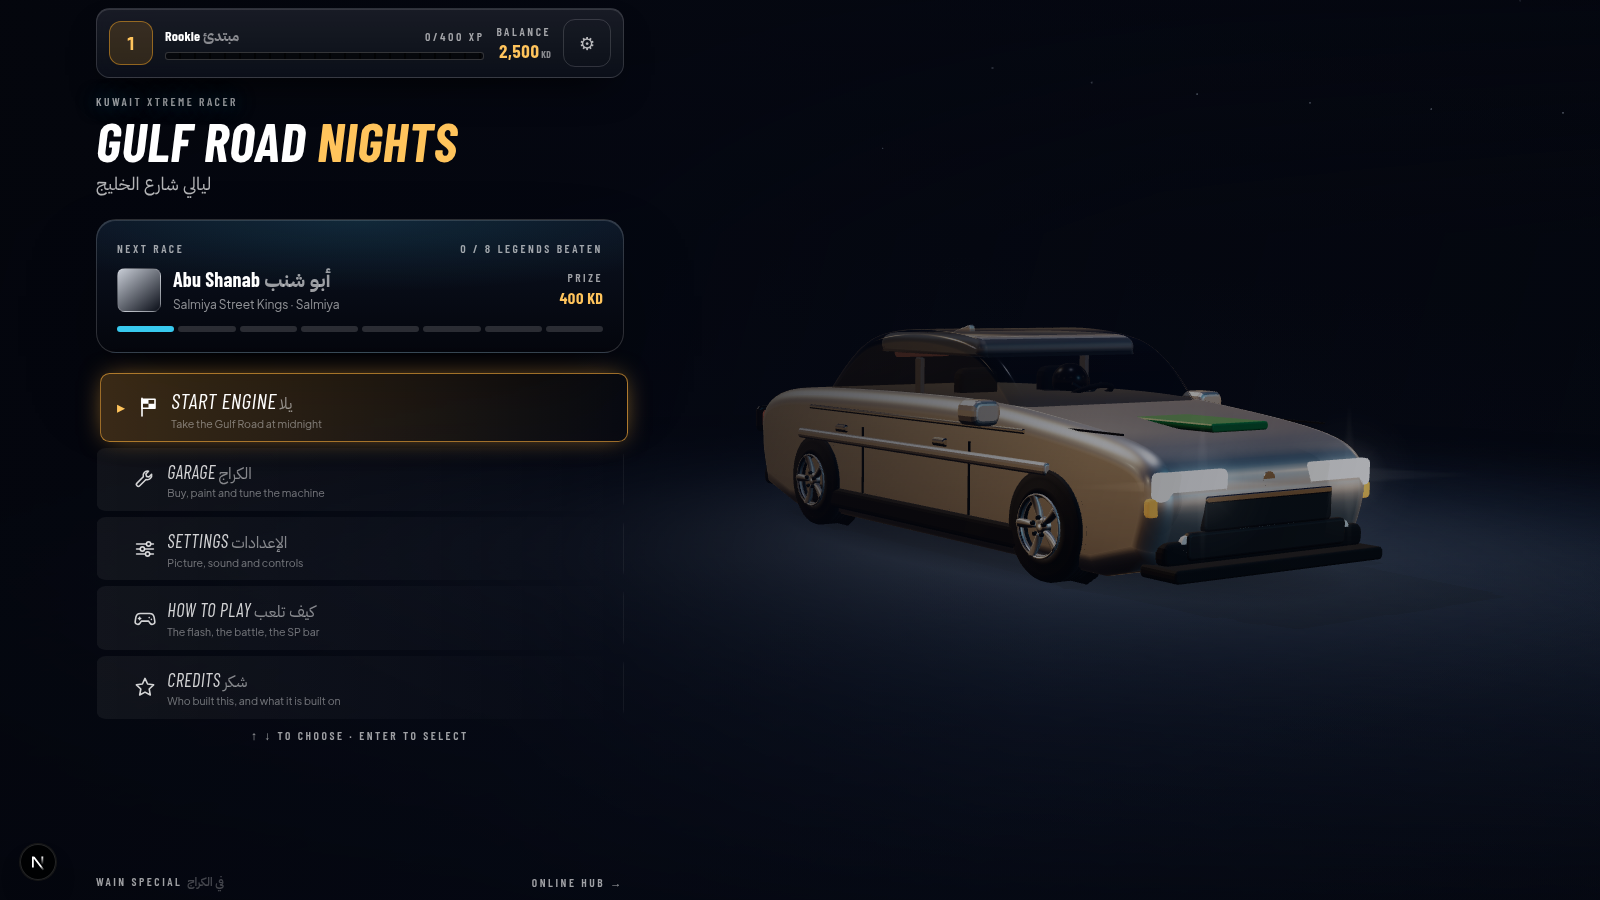
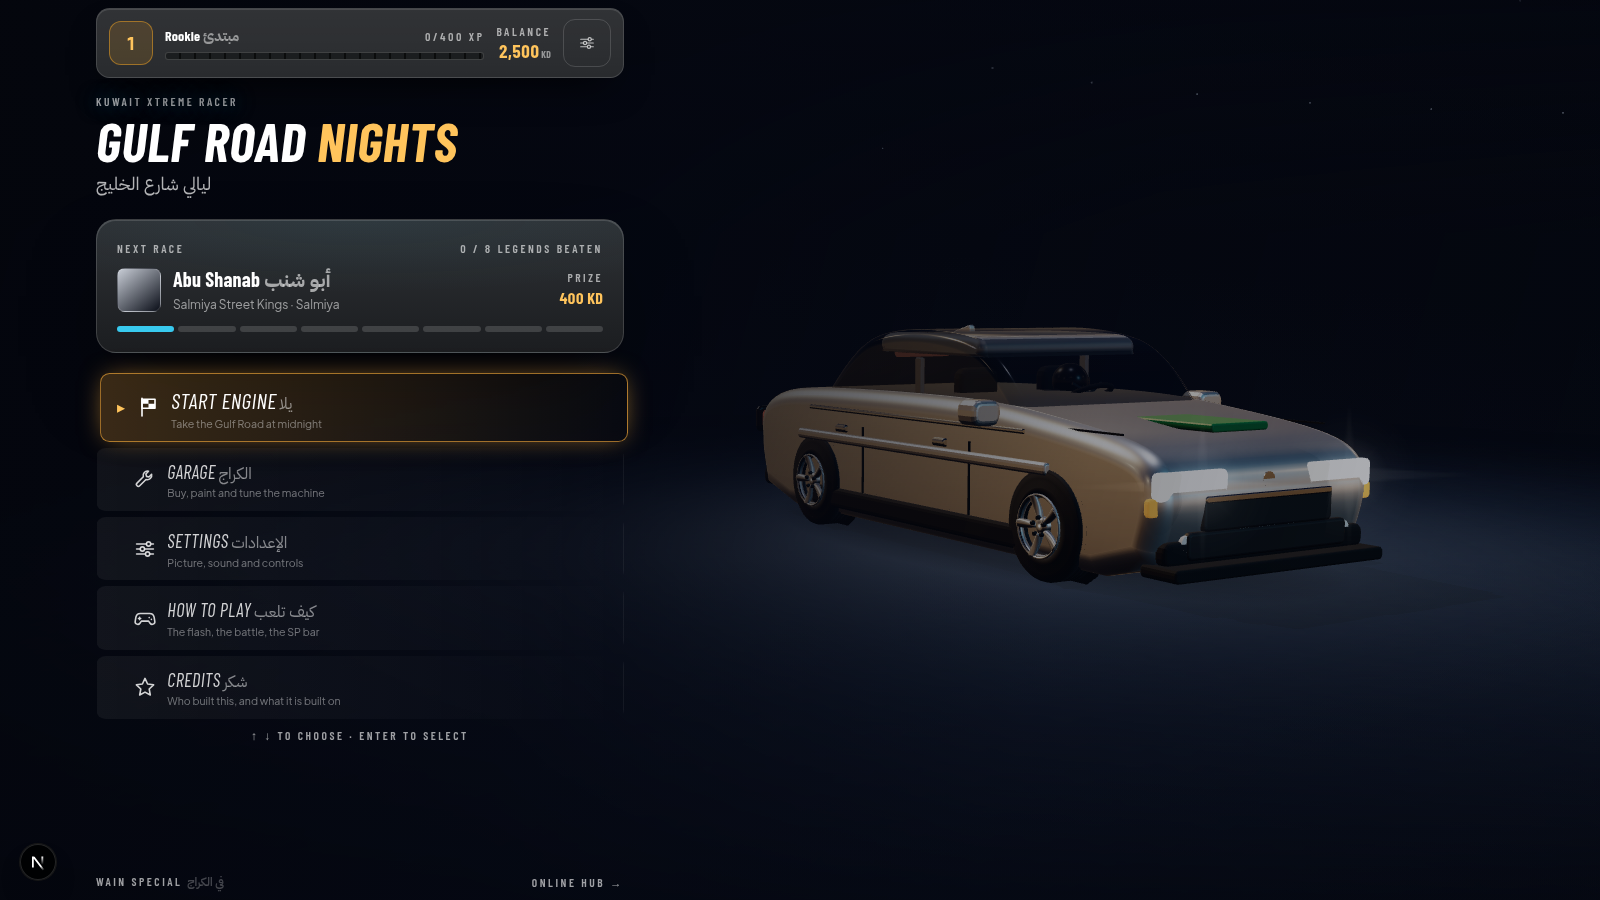
Cut the HUD from dark silver instead of navy
The instruments were the same deep navy as the night behind them, which
made the readouts look painted onto the sky rather than fitted to a car.
Panels, plates, dialogs and meters are brushed dark metal now: neutral,
with a hair of cool in it — blue four points above red, measured off the
delivered frame — so it reads as silver rather than as brown or navy.

The colours come from a steel ramp in the theme rather than from literals
scattered across four rules. The first pass declared the ramp and then
used literals anyway, which is a palette nobody is following.

EASIER ON THE EYES, MEASURED

White type on a near-black panel ran about 19.6:1. That is the contrast
that halates on a dark screen and tires you out after a few laps. The
panel now measures rgb(45,47,49) once the backdrop blur and the sheen
have had their say, which is 13.4:1 — a third off, and still three times
the 4.5:1 legibility floor.

Getting there took two passes. The first was too timid: rgb(28,31,35)
only moved the contrast to 17.1:1, and I had already written "about half"
into the comment. The second overshot the other way — the sheen was doing
more of the lifting than the base colour, and at 0.085 white overlay the
effective panel came out rgb(92,94,96), a mid grey that pulls the eye off
the road. The comment now carries the number that was actually measured
rather than the one I expected.

Every coloured halo came down with it — the speed numeral's glow roughly
[…]

Changed region(s): [[0.0625, 0.2178, 0.4062, 0.4044], [0.0625, 0.0, 0.4062, 0.0933]]

diff --git a/src/app/race/RaceClient.tsx b/src/app/race/RaceClient.tsx
@@ -887,10 +887,10 @@ export default function RaceClient() {
           className="absolute left-1/2 top-4 w-[min(560px,90vw)] -translate-x-1/2 opacity-0 transition-opacity"
         >
           <div className="mb-1.5 flex items-end justify-between">
-            <span className="grn-label text-[0.66rem] text-emerald-300 [text-shadow:0_0_10px_rgba(52,211,153,0.8)]">
+            <span className="grn-label text-[0.66rem] text-emerald-300 [text-shadow:0_0_8px_rgba(52,211,153,0.45)]">
               ▲ SP <span className="grn-ar" lang="ar">أنت</span>
             </span>
-            <span className="grn-label rival-ink text-[0.66rem] text-rose-300 [text-shadow:0_0_10px_rgba(251,113,133,0.8)]">
+            <span className="grn-label rival-ink text-[0.66rem] text-rose-300 [text-shadow:0_0_8px_rgba(251,113,133,0.45)]">
               ▼ Rival SP
             </span>
           </div>
@@ -920,7 +920,7 @@ export default function RaceClient() {
           />
           <div
             ref={flashRef}
-            className="grn-display invisible mt-1.5 flex animate-pulse items-center justify-center gap-2.5 text-lg tracking-[0.14em] text-gulf-300 [text-shadow:0_0_16px_rgba(56,201,238,0.7),0_2px_10px_rgba(0,0,0,0.9)]"
+            className="grn-display invisible mt-1.5 flex animate-pulse items-center justify-center gap-2.5 text-lg tracking-[0.14em] text-gulf-300 [text-shadow:0_0_11px_rgba(56,201,238,0.4),0_2px_10px_rgba(0,0,0,0.9)]"
           >
             <IconFlash size={20} />
             <span>FLASH 3&times; TO CHALLENGE</span>
@@ -936,7 +936,7 @@ export default function RaceClient() {
         <div className="pointer-events-none absolute left-1/2 top-[66%] -translate-x-1/2">
           <div
             ref={driftRef}
-            className="grn-display flex flex-col items-center gap-1.5 text-xl italic tracking-[0.14em] opacity-0 transition-opacity duration-300 [text-shadow:0_0_18px_rgba(56,201,238,0.5),0_2px_10px_rgba(0,0,0,0.9)]"
+            className="grn-display flex flex-col items-center gap-1.5 text-xl italic tracking-[0.14em] opacity-0 transition-opacity duration-300 [text-shadow:0_0_12px_rgba(56,201,238,0.32),0_2px_10px_rgba(0,0,0,0.9)]"
           >
             <span ref={driftTextRef} />
             <span className="drift-meter">
@@ -965,7 +965,7 @@ export default function RaceClient() {
           <div className="flex items-end gap-3.5">
             <span
               ref={speedRef}
-              className="grn-display block text-[3.9rem] italic leading-[0.8] tabular-nums text-white [text-shadow:0_0_24px_rgba(56,201,238,0.35),0_4px_16px_rgba(0,0,0,0.95)]"
+              className="grn-display block text-[3.9rem] italic leading-[0.8] tabular-nums text-[#e6e9ec] [text-shadow:0_0_14px_rgba(56,201,238,0.22),0_3px_12px_rgba(0,0,0,0.9)]"
             >
               0
             </span>
@@ -975,7 +975,7 @@ export default function RaceClient() {
                 <span className="grn-label text-[0.6rem]">Gear</span>
                 <span
                   ref={gearRef}
-                  className="grn-display text-2xl italic leading-none text-sodium-400 [text-shadow:0_0_16px_rgba(245,165,36,0.6)]"
+                  className="grn-display text-2xl italic leading-none text-sodium-400 [text-shadow:0_0_11px_rgba(245,165,36,0.35)]"
                 >
                   N
                 </span>
@@ -1119,8 +1119,8 @@ export default function RaceClient() {
             <div
               className={`grn-display text-6xl italic ${
                 duelResult.won
-                  ? "text-emerald-400 [text-shadow:0_0_30px_rgba(52,211,153,0.8)]"
-                  : "text-rose-500 [text-shadow:0_0_30px_rgba(244,63,94,0.8)]"
+                  ? "text-emerald-400 [text-shadow:0_0_20px_rgba(52,211,153,0.45)]"
+                  : "text-rose-500 [text-shadow:0_0_20px_rgba(244,63,94,0.45)]"
               }`}
             >
               {duelResult.won ? "DUEL WON" : "DUEL LOST"}
@@ -1139,7 +1139,7 @@ export default function RaceClient() {
       {/* Challenge cards — both drivers revealed, rival answers */}
       {challenge && phase === "playing" && (
         <div className="absolute inset-0 z-10 flex flex-col items-center justify-center overflow-y-auto bg-black/70 px-4 py-6">
-          <div className="grn-label text-[0.7rem] tracking-[0.42em] text-gulf-300 [text-shadow:0_0_18px_rgba(56,201,238,0.6)]">
+          <div className="grn-label text-[0.7rem] tracking-[0.42em] text-gulf-300 [text-shadow:0_0_12px_rgba(56,201,238,0.36)]">
             Headlights flashed ×3 — <span className="grn-ar" lang="ar">التحدي</span>
           </div>
           <div className="mt-4 flex w-full max-w-3xl items-stretch justify-center gap-4">
@@ -1274,7 +1274,7 @@ export default function RaceClient() {
               </div>
             ) : challenge.answer.accepted ? (
               <div>
-                <div className="grn-display text-4xl italic text-emerald-400 [text-shadow:0_0_26px_rgba(52,211,153,0.85)]">
+                <div className="grn-display text-4xl italic text-emerald-400 [text-shadow:0_0_18px_rgba(52,211,153,0.5)]">
                   ACCEPTED — <span className="grn-ar" lang="ar">قبل التحدي</span> ✓
                 </div>
                 <div className="grn-label mt-1.5 text-[0.66rem] text-sodium-400">
@@ -1283,7 +1283,7 @@ export default function RaceClient() {
               </div>
             ) : (
               <div>
-                <div className="grn-display text-4xl italic text-rose-500 [text-shadow:0_0_26px_rgba(244,63,94,0.85)]">
+                <div className="grn-display text-4xl italic text-rose-500 [text-shadow:0_0_18px_rgba(244,63,94,0.5)]">
                   REJECTED — <span className="grn-ar" lang="ar">رفض</span> ✕
                 </div>
                 <div className="mt-1.5 text-sm font-semibold text-white/70">
@@ -1299,7 +1299,7 @@ export default function RaceClient() {
       {vsRival && phase === "playing" && (
         <div className="pointer-events-none absolute inset-0 z-10 flex items-center justify-center overflow-hidden bg-black/55">
           <div className="vs-slide-left w-[38%] text-right">
-            <div className="grn-display text-6xl italic text-emerald-300 [text-shadow:0_0_28px_rgba(52,211,153,0.85)] sm:text-7xl">
+            <div className="grn-display text-6xl italic text-emerald-300 [text-shadow:0_0_19px_rgba(52,211,153,0.5)] sm:text-7xl">
               YOU
             </div>
             <div className="grn-ar mt-1 text-xl text-white/75" dir="rtl" lang="ar">

diff --git a/src/app/globals.css b/src/app/globals.css
@@ -60,6 +60,22 @@
   --color-night-900: #070b16;
   --color-night-800: #0c1322;
   --color-night-700: #141d31;
+  /* Dark silver — the HUD's own chrome.
+     The instruments used to be cut from the same deep navy as the night
+     behind them, which made the readouts look painted onto the sky
+     rather than fitted to a car, and put white type on a near-black
+     ground — measured off the delivered frame, white on the old panel
+     ran about 19.6:1, the contrast that halates and tires the eye after
+     a few laps. Brushed dark metal is both what these parts would
+     actually be made of and gentler to read: the panel now measures
+     rgb(45,47,49) once the blur and the sheen have had their say, which
+     is 13.4:1 — a third off, and still three times the 4.5:1 legibility
+     floor. Neutral with a hair of cool in it (blue four points above
+     red) so it reads as silver rather than brown or navy. */
+  --color-steel-900: #1c1e21;
+  --color-steel-800: #282a2d;
+  --color-steel-700: #2a2c2f;
+  --color-steel-600: #303337;
   --color-sodium-400: #ffc45c;
   --color-sodium-500: #f5a524;
   --color-gulf-300: #7fe3ff;
@@ -252,9 +268,9 @@ body {
 /* Frosted panel: dark glass, hairline top highlight, soft depth */
 .grn-panel {
   background:
-    linear-gradient(180deg, rgba(255, 255, 255, 0.07), rgba(255, 255, 255, 0.02)),
-    rgba(7, 11, 22, 0.82);
-  border: 1px solid rgba(255, 255, 255, 0.14);
+    linear-gradient(180deg, rgba(255, 255, 255, 0.05), rgba(255, 255, 255, 0.015)),
+    color-mix(in srgb, var(--color-steel-700) 90%, transparent);
+  border: 1px solid rgba(255, 255, 255, 0.13);
   border-radius: 0.85rem;
   box-shadow:
     0 1px 0 rgba(255, 255, 255, 0.12) inset,
@@ -265,7 +281,11 @@ body {
 /* Angled HUD plate with an accent spine on the leading edge */
 .grn-plate {
   position: relative;
-  background: linear-gradient(90deg, rgba(7, 11, 22, 0.88), rgba(7, 11, 22, 0.55));
+  background: linear-gradient(
+    90deg,
+    color-mix(in srgb, var(--color-steel-800) 93%, transparent),
+    color-mix(in srgb, var(--color-steel-800) 50%, transparent)
+  );
   border-left: 3px solid var(--color-sodium-500);
   border-radius: 0 0.5rem 0.5rem 0;
   box-shadow: 0 10px 30px -14px rgba(0, 0, 0, 0.95);
@@ -275,9 +295,15 @@ body {
 /* Popup dialogs (defeat, champion) share one dramatic frame */
 .grn-dialog {
   background:
-    radial-gradient(120% 90% at 50% 0%, rgba(56, 201, 238, 0.12), transparent 60%),
-    linear-gradient(180deg, rgba(12, 19, 34, 0.96), rgba(4, 6, 13, 0.97));
-  border: 1px solid rgba(255, 255, 255, 0.16);
+    /* A hint of cyan at the crown, not a wash of it: at 0.12 the whole
+       dialog took a blue cast, which is the thing being moved away from. */
+    radial-gradient(120% 90% at 50% 0%, rgba(56, 201, 238, 0.05), transparent 62%),
+    linear-gradient(
+      180deg,
+      color-mix(in srgb, var(--color-steel-600) 96.5%, transparent),
+      color-mix(in srgb, var(--color-steel-900) 97.5%, transparent)
+    );
+  border: 1px solid rgba(255, 255, 255, 0.15);
   border-radius: 1.25rem;
   box-shadow:
     0 1px 0 rgba(255, 255, 255, 0.14) inset,
@@ -288,8 +314,8 @@ body {
 .grn-meter {
   position: relative;
   overflow: hidden;
-  background: rgba(0, 0, 0, 0.55);
-  border: 1px solid rgba(255, 255, 255, 0.18);
+  background: color-mix(in srgb, var(--color-steel-900) 62%, transparent);
+  border: 1px solid rgba(255, 255, 255, 0.16);
   border-radius: 0.2rem;
 }
 .grn-meter::after {
